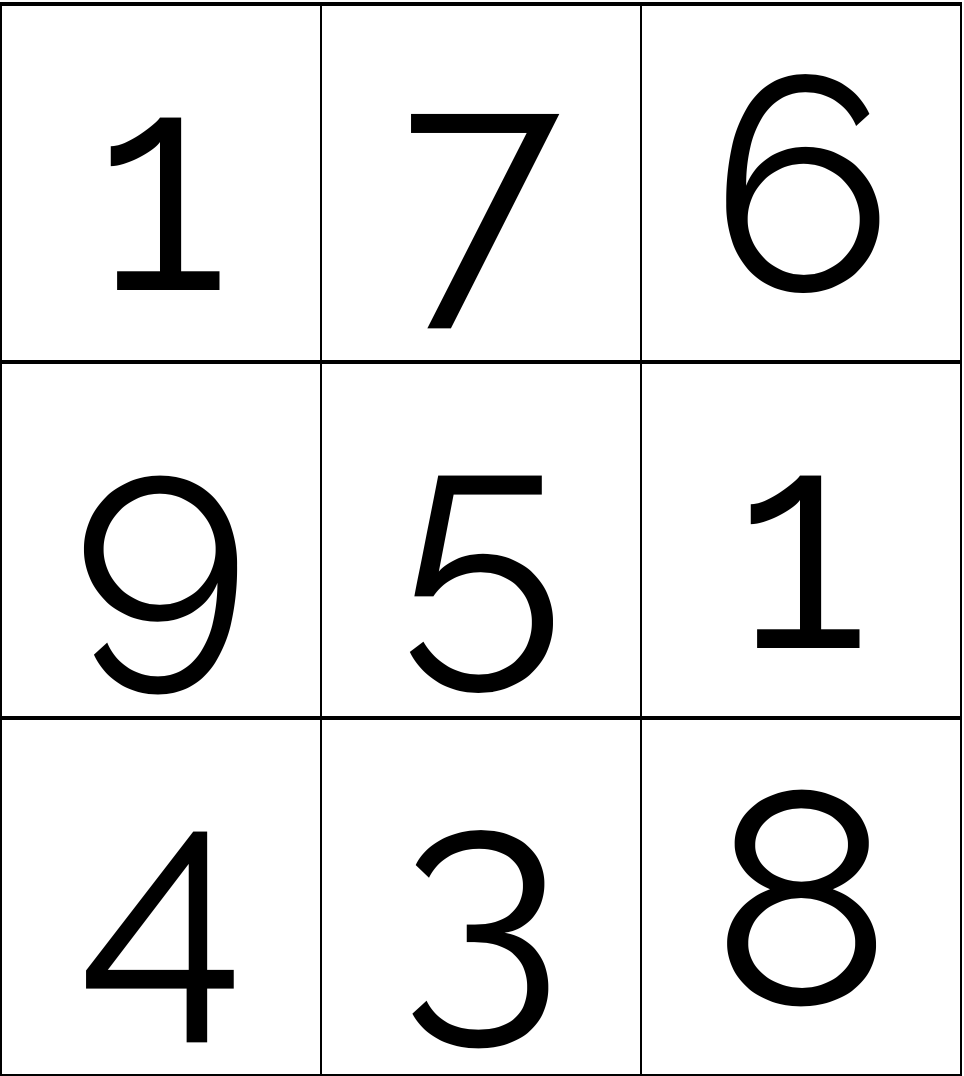
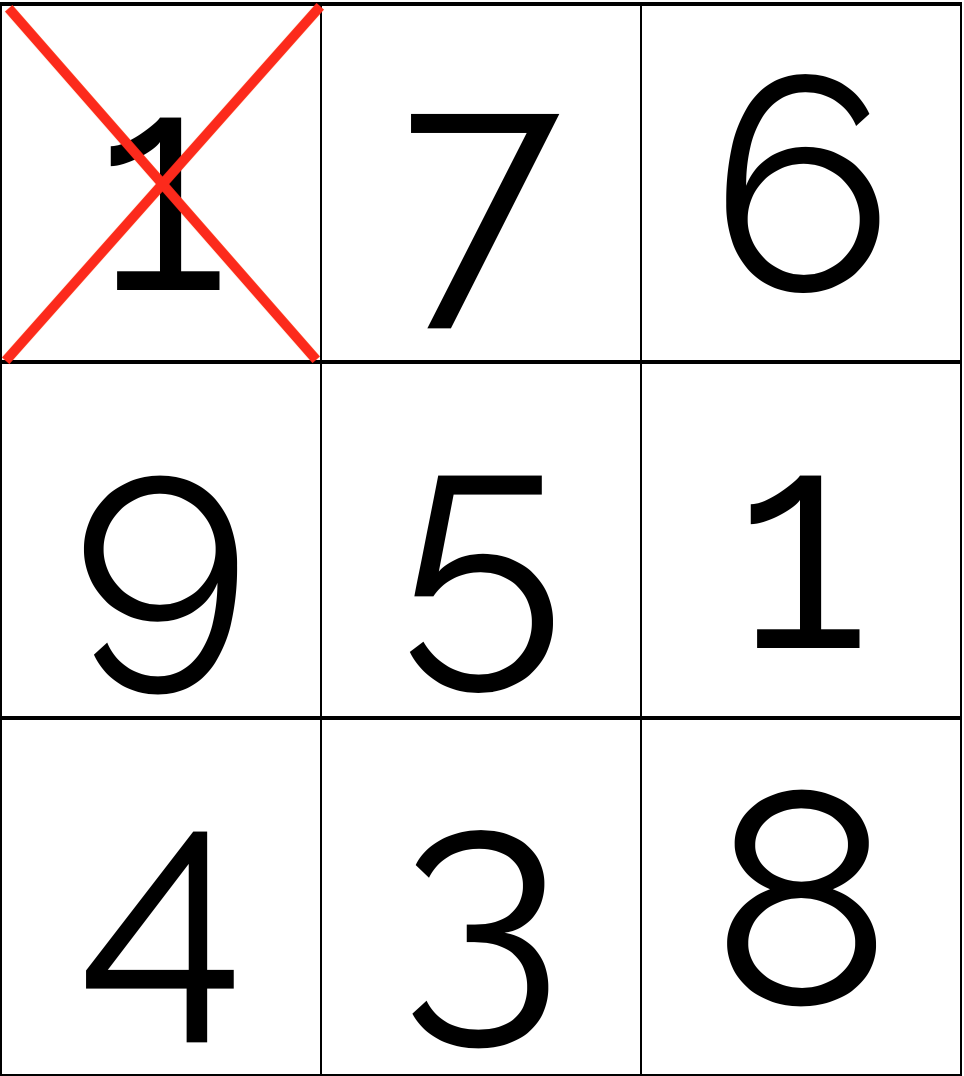
as

diff --git a/filosofoporundia.html b/filosofoporundia.html
@@ -151,9 +151,33 @@ Repensar: los cinco sentidos
     </ul>
     </section>    
     
+<section>Vamos a re-pensar el juego</section>    
+    
 <section data-background-color="white"  data-background-image ="img/triqui.png" data-background-size = "contain">    
-        </section>    
+</section>    
+<section data-background-color="white"  data-background-image ="img/triqui2.png" data-background-size = "contain">    
+</section>    
+<section data-background-color="white"  data-background-image ="img/triqui3.png" data-background-size = "contain">    
+</section>    
+<section data-background-color="white"  data-background-image ="img/triqui4.png" data-background-size = "contain">    
+</section>    
+<section data-background-color="white"  data-background-image ="img/triqui5.png" data-background-size = "contain">    
+</section>    
+<section data-background-color="white"  data-background-image ="img/triqui6.png" data-background-size = "contain">    
+</section>    
 
+<section>¿Qué pasó?</section>    
+    
+<section  data-background-color="white" data-background-image ="img/collagesabana.jpg" data-background-size = "contain" data-background-position="right">
+<div class="container">
+<div class="row">
+<div class=" col-sm-5">  
+<p style="text-align:left; background-color:white; color:#022461">Re-pensar: los cinco sentidos</p>
+</div>
+</div>	
+</div>
+</section>     
+    
 <section data-background-color="white"  data-background-image ="https://upload.wikimedia.org/wikipedia/commons/1/1e/Haeckel_Chiroptera_Plecotus_auritus_2.jpg" data-background-size = "contain">    
     
     <h2 class="fragment highlightred" style="color:">¿Los murciélagos ven por medio de sonidos?</h2>
@@ -226,33 +250,13 @@ Necesitamos unos voluntarios para ver cómo respondería Aristóteles a algunos 
 
     </section>          
     
-    
-<section  data-background-color="white" data-background-image ="img/Aristonew.jpg" data-background-size = "contain" data-background-position="right">
-<div class="container">
-<div class="row">
-<div class=" col-md-5">  
-<p class="fragment fade-left" style="text-align:; background-color:white; color:#022461">
-Un último ejemplo de percepción mediada por la tecnología  </p>
-</div>
-</div>	
-</div>
-</section>         
- <section data-background-color="white"  data-background-image ="img/paloma.jpg" data-background-size = "auto">    
-    
-    <h2 class=" highlightred" style="color:">¿Podemos tener un sentido de orientación como el de las palomas?</h2>
-        <p class="highlightred">¿Qué creen ustedes?</p>
-
-       
-
-    </section>    
-    
 <section><h1>¿Y de qué sirve todo esto?</h1>
     <p class="fragment">Entender nuestros sentidos nos sirve para entendernos a nosotros mismos.</p>
     </section>   
 <section><iframe width="560" height="315" src="https://www.youtube-nocookie.com/embed/AdeJtm5kDEw?rel=0&amp;controls=0&amp;showinfo=0" frameborder="0" allow="autoplay; encrypted-media" allowfullscreen></iframe></section>    
 
     
-<section>Hay implantes cocleares que le dan la posibilidad de escuchar a bebes sordos. Y el trabajo de los filósofos de la mente y de la percepción en particular contribuye a entender nuestros sentidos y, así, avanzar estas posibilidades. 
+<section>Hay implantes cocleares que le dan la posibilidad de escuchar a bebes sordos. Y el trabajo de los filósofos de la mente y de la percepción en particular contribuye a re-pensar nuestros sentidos y, así, avanzar estas posibilidades. 
     
     <p class="fragment">Esto es sólo un fragmento de lo que son las implicaciones que la filosofía de la percepción tiene respecto a nuestro propio entendimiento. Parte del trabajo en esta área consiste en explorar sus alcances.  </p>
     </section>    
